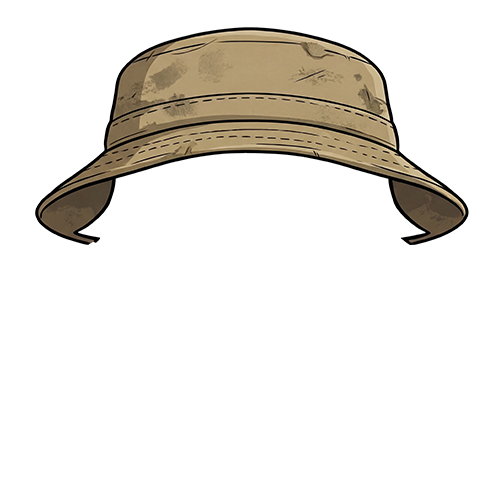
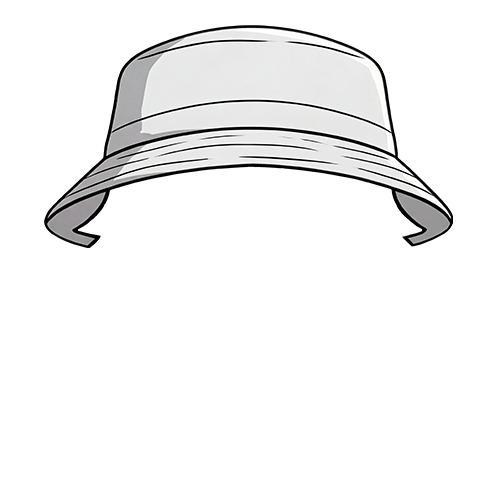
feat: add new pfp layers and update attributes config

Changed region(s): [[0.06, 0.03, 0.96, 0.51]]

diff --git a/data/attributes.js b/data/attributes.js
@@ -182,6 +182,11 @@ export const attributesConfig = [
       { id: 'shirt_13', label: 'SWAT', src: '/assets/shirt/swat.png', type: 'image' },
       { id: 'shirt_14', label: 'Open Claw', src: '/assets/shirt/openclaw.png', type: 'image' },
       { id: 'shirt_15', label: 'White Tee', src: '/assets/shirt/white.png', type: 'image' },
+      { id: 'shirt_16', label: 'Bulls', src: '/assets/shirt/bulls.png', type: 'image' },
+      { id: 'shirt_17', label: 'Game Over', src: '/assets/shirt/game-over.png', type: 'image' },
+      { id: 'shirt_18', label: 'Lakers', src: '/assets/shirt/lakers.png', type: 'image' },
+      { id: 'shirt_19', label: 'Tux', src: '/assets/shirt/tux.png', type: 'image' },
+      { id: 'shirt_20', label: 'VB', src: '/assets/shirt/vb.png', type: 'image' },
     ]
   },
   {
@@ -207,6 +212,12 @@ export const attributesConfig = [
       { id: 'glasses_4', label: 'Ski', src: '/assets/glasses/ski.png', type: 'image' },
       { id: 'glasses_5', label: 'Rayban', src: '/assets/glasses/rayban.png', type: 'image' },
       { id: 'glasses_6', label: 'Neovision', src: '/assets/glasses/neovision.png', type: 'image' },
+      { id: 'glasses_7', label: 'Black', src: '/assets/glasses/black.png', type: 'image' },
+      { id: 'glasses_8', label: 'Green', src: '/assets/glasses/green.png', type: 'image' },
+      { id: 'glasses_9', label: 'Purple', src: '/assets/glasses/purple.png', type: 'image' },
+      { id: 'glasses_10', label: 'Red', src: '/assets/glasses/red.png', type: 'image' },
+      { id: 'glasses_11', label: 'Teal', src: '/assets/glasses/teal.png', type: 'image' },
+      { id: 'glasses_12', label: 'Yellow', src: '/assets/glasses/yellow.png', type: 'image' },
     ]
   },
   {
@@ -227,6 +238,9 @@ export const attributesConfig = [
       { id: 'hat_9', label: 'Top Hat', src: '/assets/hat/tophat.png', type: 'image' },
       { id: 'hat_10', label: 'Viking', src: '/assets/hat/viking.png', type: 'image' },
       { id: 'hat_12', label: 'White Hat', src: '/assets/hat/white-hat.png', type: 'image' },
+      { id: 'hat_15', label: 'Blue Cap', src: '/assets/hat/blue-cap.png', type: 'image' },
+      { id: 'hat_16', label: 'Roaring Kitty', src: '/assets/hat/roaring-kitty.png', type: 'image' },
+      { id: 'hat_17', label: 'Tan Hat', src: '/assets/hat/tan-hat.png', type: 'image' },
     ]
   },
   {
@@ -239,6 +253,7 @@ export const attributesConfig = [
       { id: 'mouth_3', label: 'Tongue', src: '/assets/mouth/tongue.png', type: 'image' },
       { id: 'mouth_4', label: 'Crazy', src: '/assets/mouth/crazy.png', type: 'image' },
       { id: 'mouth_5', label: 'Vamp', src: '/assets/mouth/vamp.png', type: 'image' },
+      { id: 'mouth_6', label: 'Cigar', src: '/assets/mouth/cigar.png', type: 'image' },
     ]
   },
   {
